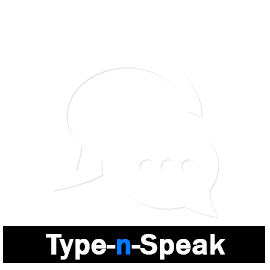
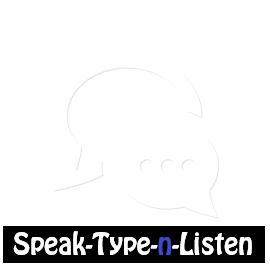
updated speak listen feature

Changed region(s): [[0.0296, 0.8593, 0.9481, 0.9778]]

diff --git a/js/main.js b/js/main.js
@@ -1,6 +1,21 @@
 // Init SpeechSynth API
 const synth = window.speechSynthesis;
 
+// SpeechRecognition based on Firefox || Chrome
+window.SpeechRecognition = window.webkitSpeechRecognition || window.SpeechRecognition;
+
+// Init SpeechRecognition API
+let recognition = null;
+if ('SpeechRecognition' in window) {
+  // speech recognition API supported
+  recognition = new window.SpeechRecognition();
+
+  // setting recogntion config properties
+  recognition.interimResults = true;
+  recognition.maxAlternatives = 10;
+  recognition.continuous = true;
+}
+
 // DOM Elements
 const textForm = document.querySelector('form');
 const textInput = document.querySelector('#text-input');
@@ -11,17 +26,21 @@ const pitch = document.querySelector('#pitch');
 const pitchValue = document.querySelector('#pitch-value');
 const body = document.querySelector('body');
 
+const listenBtn = document.querySelector('#listen'); 
+
 //Browser identifier
 // Firefox 1.0+
 var isFirefox = typeof InstallTrigger !== 'undefined';
 
 // Chrome 1+
-var isChrome = !!window.chrome && !!window.chrome.webstore;
+// var isChrome = !!window.chrome && !!window.chrome.webstore;
+var isChrome = (!!window.chrome && !!window.chrome.webstore) || (/Chrome/.test(navigator.userAgent) && /Google Inc/.test(navigator.vendor))
 
 // Init voices array
 let voices = [];
 
 const getVoices = () => {
+
   voices = synth.getVoices();
 
   // Loop through voices and create an option for each one
@@ -56,6 +75,9 @@ if (isChrome) {
 
 // Speak
 const speak = () => {
+  // stop listening
+  stopListen()
+
   // Check if speaking
   if (synth.speaking) {
     console.error('Already speaking...');
@@ -118,3 +140,52 @@ pitch.addEventListener('change', e => (pitchValue.textContent = pitch.value));
 
 // Voice select change
 voiceSelect.addEventListener('change', e => speak());
+
+
+// Speech recognition
+const startListen = () => {
+  if (!recognition) {
+    console.error('Recognition not found...');
+    return;
+  }
+  let finalTranscript = '';
+
+    // initiate recognition with microphone permission
+    recognition.onresult = (event) => {
+        // const speechToText = event.results[0][0].transcript;
+      let interimTranscript = '';
+      for (let i = event.resultIndex, len = event.results.length; i < len; i++) {
+        let transcript = event.results[i][0].transcript;
+        if (event.results[i].isFinal) {
+          finalTranscript += transcript;
+        } else {
+          interimTranscript += transcript;
+        }
+      }
+      textInput.value = finalTranscript + interimTranscript 
+      // console.log(finalTranscript , interimTranscript )
+    }
+    recognition.start();
+}
+
+const stopListen = () => {
+  console.log('Done listening')
+  recognition.stop()
+  listenBtn.innerHTML = 'Listen It'
+    // console.log(recognition.stop())
+}
+
+// clicked on listen button
+listenBtn.addEventListener('click', e => {
+  // listenBtn.text('wee')
+  let btnText = listenBtn.innerHTML
+  if(btnText == 'Listen It') {
+    startListen();
+    listenBtn.innerHTML = 'Listening ...'
+  } else {
+    stopListen();
+    listenBtn.innerHTML = 'Listen It' 
+  }
+  // console.log(listenBtn.innerHTML)
+  // alert(23)
+});

diff --git a/index.html b/index.html
@@ -1,5 +1,5 @@
 <!DOCTYPE html>
-<html>
+<html lang="en">
 
 <head>
     <meta charset="utf-8" />
@@ -19,6 +19,10 @@
         <img src="img/speech.png" alt="Speech Logo" class="mb-5">
         <div class="row">
             <div class="col-md-6 mx-auto">
+                <div class="mb-5">
+                    <button class="btn btn-light btn-lg btn-block" id="listen" >Listen It</button>
+                </div>
+
                 <form class="mb-5">
                     <div class="form-group">
                         <textarea name="" id="text-input" class="form-control form-control-lg" placeholder="Type anything..."></textarea>
@@ -53,6 +57,7 @@
         <script src="https://stackpath.bootstrapcdn.com/bootstrap/4.1.3/js/bootstrap.min.js" integrity="sha384-ChfqqxuZUCnJSK3+MXmPNIyE6ZbWh2IMqE241rYiqJxyMiZ6OW/JmZQ5stwEULTy"
         crossorigin="anonymous"></script>
     <script src="js/main.js"></script>
+    <!-- <script src="js/speech.js"></script> -->
 </body>
 </body>
 

diff --git a/css/main.css b/css/main.css
@@ -1,3 +1,11 @@
 body {
     background: #141414;
 }
+
+@media only screen and (max-width: 600px) {
+    img { 
+        width: 100%;
+        max-width: 200px;
+        height: auto;
+     }
+  }
